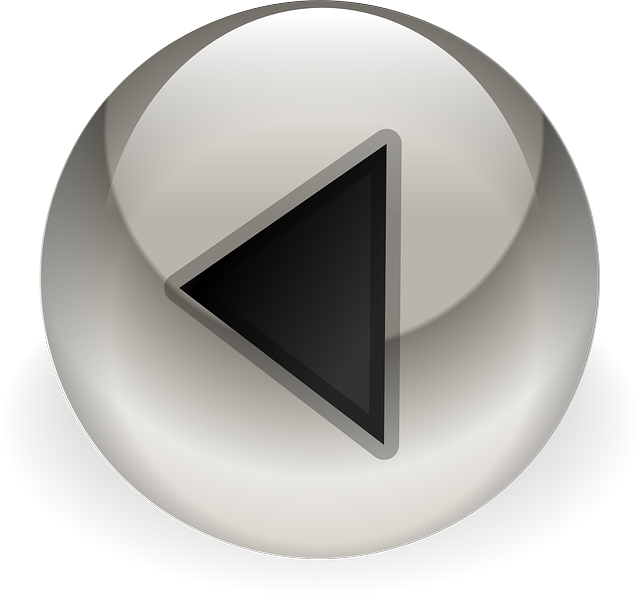
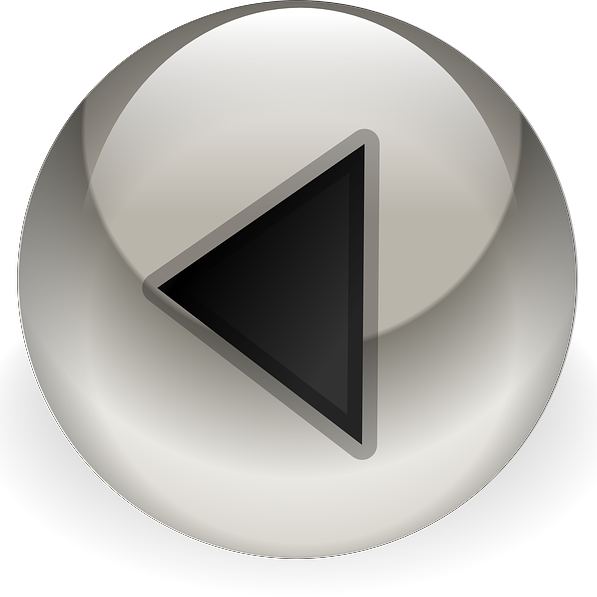
More UI updates to the game screen
Got rid of the pause menu, next button, and "Guess Where" text. Fixed issue where left and right buttons were not properly aligned. Couple other minor changes

diff --git a/templates/NinerNav/game.html b/templates/NinerNav/game.html
@@ -8,10 +8,10 @@
     <a-scene vr-mode-ui="enabled: false">
         <a-sky id="sky" src="" rotation="0 -130 0"></a-sky>
         
-        <button id="pause-button" onclick="pauseGame()">Pause</button>
+        <!-- <button id="pause-button" onclick="pauseGame()">Pause</button> -->
 
-        <a-text font="kelsonsans" value="Guess Where" width="6" position="-2.5 0.25 -1.5"
-                rotation="0 15 0"></a-text>
+        <!-- <a-text font="kelsonsans" value="Guess Where" width="6" position="-2.5 0.25 -1.5"
+                rotation="0 15 0"></a-text> -->
 
         <a-entity id="rig"
                   movement-controls
@@ -41,8 +41,8 @@
     <div id="compass">
         <div class="row">
 
-            <img src="/static/images/leftButton.png" height="75px" width="75px" button id="B" onclick="rotateCamera(270)"></button>
-            <img src="/static/images/rightButton.png" height="75px" width="75px" button id="B" onclick="rotateCamera(90)"></button>
+            <img src="/static/images/leftButton.png" height="100px" width="100px" button id="B" onclick="rotateCamera(270)"></button>
+            <img src="/static/images/rightButton.png" height="100px" width="100px" button id="B" onclick="rotateCamera(90)"></button>
 
         </div>
     
@@ -53,21 +53,23 @@
 
     </div>
 
-    <button id="next-button" onclick="nextImage()">Next</button>
-
+    <!-- <button id="next-button" onclick="nextImage()">Next</button> -->
+<!-- 
     <div id="pause-menu">
         <button onclick="resumeGame()">Resume</button>
-        <!-- <button onclick="loadGame()">Load</button>
+        <button onclick="loadGame()">Load</button>
         <button onclick="saveGame()">Save</button>
-        <button onclick="restartGame()">Restart</button> -->
-        <!-- <button onclick="openSettings()">Settings</button> -->
-        <!-- <button onclick="quitGame()">Quit</button> -->
+        <button onclick="restartGame()">Restart</button>
+        <button onclick="openSettings()">Settings</button> 
+        <button onclick="quitGame()">Quit</button> 
         <button onclick="returnToMainMenu()">Main Menu</button>
         <div>
             <label for="volume">Volume:</label>
             <input type="range" id="volume" name="volume" min="0" max="100" onchange="changeVolume(this.value)">
         </div>
-    </div>
+    </div> -->
+
+
 
     <script src="/static/components/gamescripts.js"></script>
 </body>

diff --git a/static/gamestyle.css b/static/gamestyle.css
@@ -2,28 +2,28 @@
     position: absolute;
     bottom: 10px;
     left: 10px;
-    z-index: 1;
-    display: flex;
-    flex-direction: column;
+    z-index: 1; */
+    display: flex; 
+    flex-direction: column; 
     align-items: center;
 }
-#compass .row {
+/* #compass .row {
     display: flex;
-}
-#compass .compass {
+} */
+/* #compass .compass {
     width: 50px;
     height: 50px;
     background-image: url('images/compass.jpeg');
     background-size: cover;
     margin: 10px;
-}
-#next-button {
+} */
+/* #next-button {
     position: absolute;
     top: 10px;
     right: 10px;
     z-index: 1;
-}
-#pause-menu {
+} */
+/* #pause-menu {
     display: none;
     position: absolute;
     top: 50%;
@@ -32,10 +32,10 @@
     background-color: #fff;
     padding: 20px;
     z-index: 2;
-}
-#pause-button {
+} */
+/* #pause-button {
     position: absolute;
     top: 10px;
     left: 10px;
     z-index: 1;
-}
+} */
